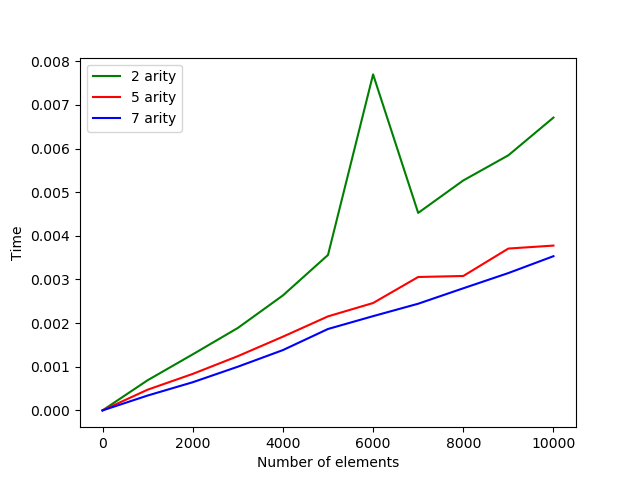
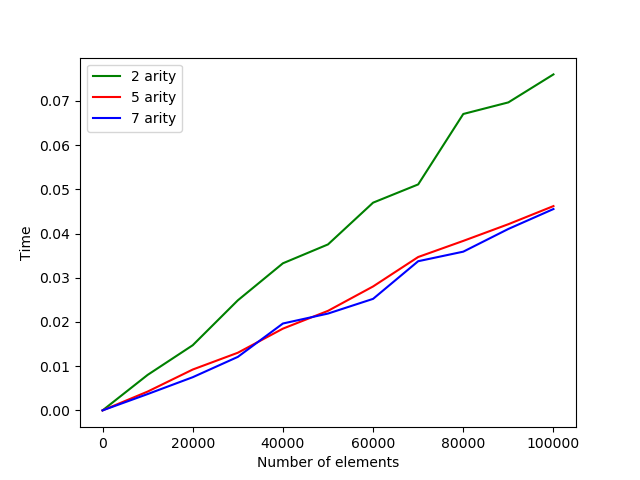
Measured bigger plots creation and removal times

diff --git a/create_plots.py b/create_plots.py
@@ -20,15 +20,23 @@ def create_heap(arity, collection_to_use:list):
     return my_heap
 
 
-def delete_from_a_heap(heap:Heap, collection_to_use:list):
-    for _ in collection_to_use:
+def measure_removal_time(heap:Heap) -> list:
+    del_times = []
+    gc_old = gc.isenabled()
+    gc.disable()
+    for _ in range(0, 100001, 10000):
+        start = time.process_time()
         heap.pop()
+        stop = time.process_time()
+        del_times.append(stop - start)
+    if gc_old:
+        gc.enable()
+    return del_times
 
-def measure_time(arity, collection:list) -> tuple:
+def measure_creation_time(arity, collection:list) -> int:
     if len(collection) == 0:
-        return 0, 0
+        return 0
     creation_time = 0
-    removal_time = 0
     gc_old = gc.isenabled()
     gc.disable()
     # measuring creation time
@@ -37,15 +45,9 @@ def measure_time(arity, collection:list) -> tuple:
     stop = time.process_time()
     # save time
     creation_time += stop - start
-    # measuring removal time
-    start = time.process_time()
-    delete_from_a_heap(heap_created, collection)
-    stop = time.process_time()
-    # save time
-    removal_time += stop - start
     if gc_old:
         gc.enable()
-    return creation_time, removal_time
+    return creation_time
 
 
 
@@ -59,19 +61,23 @@ def create_heap_figures(entry_list:list):
     time_to_remove_7_arity = []
     arity_list = [2, 5, 7]
     for c_arity in arity_list:
-        for n in range(0, 10001, 1000):
+        for n in range(0, 100001, 10000):
             n_tested.append(n)
             tested = entry_list[:n]
-            heap_times = measure_time(c_arity, tested)
+            heap_times = measure_creation_time(c_arity, tested)
             if c_arity == 2:
-                time_to_create_2_arity.append(heap_times[0])
-                time_to_remove_2_arity.append(heap_times[1])
+                time_to_create_2_arity.append(heap_times)
             if c_arity == 5:
-                time_to_create_5_arity.append(heap_times[0])
-                time_to_remove_5_arity.append(heap_times[1])
+                time_to_create_5_arity.append(heap_times)
             if c_arity == 7:
-                time_to_create_7_arity.append(heap_times[0])
-                time_to_remove_7_arity.append(heap_times[1])
+                time_to_create_7_arity.append(heap_times)
+
+    my_heap = create_heap(2, entry_list)
+    time_to_remove_2_arity = measure_removal_time(my_heap)
+    my_heap = create_heap(5, entry_list)
+    time_to_remove_5_arity = measure_removal_time(my_heap)
+    my_heap = create_heap(7, entry_list)
+    time_to_remove_7_arity = measure_removal_time(my_heap)
 
     # creation plots
     plt.plot(n_tested[:11], time_to_create_2_arity, color = 'g', label = "2 arity")
@@ -83,7 +89,7 @@ def create_heap_figures(entry_list:list):
     plt.savefig("Heaps creation times")
     plt.clf()
 
-    # removing from plots
+    # removing from big plots
     plt.plot(n_tested[:11], time_to_remove_2_arity, color = 'g', label = "2 arity")
     plt.plot(n_tested[11:22], time_to_remove_5_arity, color = 'r', label = "5 arity")
     plt.plot(n_tested[22:], time_to_remove_7_arity, color = 'b', label = "7 arity")
@@ -95,5 +101,5 @@ def create_heap_figures(entry_list:list):
 
 
 if __name__ == "__main__":
-    random_numbers = random.sample(range(1, 30000), 10000)
+    random_numbers = random.sample(range(1, 300000), 100000)
     create_heap_figures(random_numbers)
